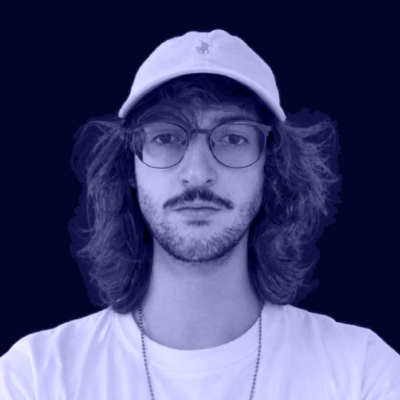
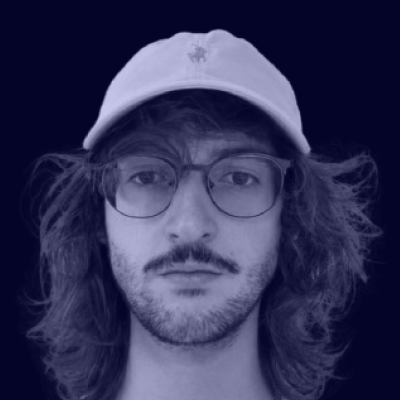
Add Loka and Sperid Labs as community sponsors
Both logos are traced from the sponsors' own brand assets:

- Loka: their nav wordmark, viewBox tightened to the glyph bounds.
- Sperid Labs: mark + "speridlabs" lockup rebuilt to match their nav
  (Inter Semibold, -0.01em tracking, 10px gap, mark at type height).
  The wordmark is outlined rather than <text>, since SVGs loaded via
  <img> can't fetch webfonts. Their logo-mark.svg also ships a black
  background rect, which had to go — the grid applies brightness-0
  invert, which would have rendered it as a solid white square.

The tier moves to two rows of two. The nth-child rule drops the right
border on the last column so it doesn't double against the panel's
own border-x.

Also includes an unrelated re-compress of the chema speaker photo.

diff --git a/src/data/sponsors.ts b/src/data/sponsors.ts
@@ -43,11 +43,15 @@ export const sponsorTiers: SponsorTier[] = [
   },
   {
     label: "Community",
-    gridClass: "grid-cols-2",
+    // Two rows of two. The nth-child rule drops the right border on the last
+    // column so it doesn't double up against the panel's own border-x.
+    gridClass: "grid-cols-2 [&>*:nth-child(2n)]:border-r-0",
     panelClass: "border-x border-white/10",
     sponsors: [
-      { name: "tldraw", url: "https://tldraw.dev/", logo: "tldraw.svg", logoClass: "h-5" },
-      { name: "Zed", url: "https://zed.dev", logo: "zed.svg", logoClass: "h-5" },
+      { name: "tldraw", url: "https://tldraw.dev/", logo: "tldraw.svg", logoClass: "h-4" },
+      { name: "Zed", url: "https://zed.dev", logo: "zed.svg", logoClass: "h-4" },
+      { name: "Loka", url: "https://www.loka.com", logo: "loka.svg", logoClass: "h-4" },
+      { name: "Sperid Labs", url: "https://speridlabs.com", logo: "sperid-labs.svg", logoClass: "h-4" },
     ],
   },
 ];
